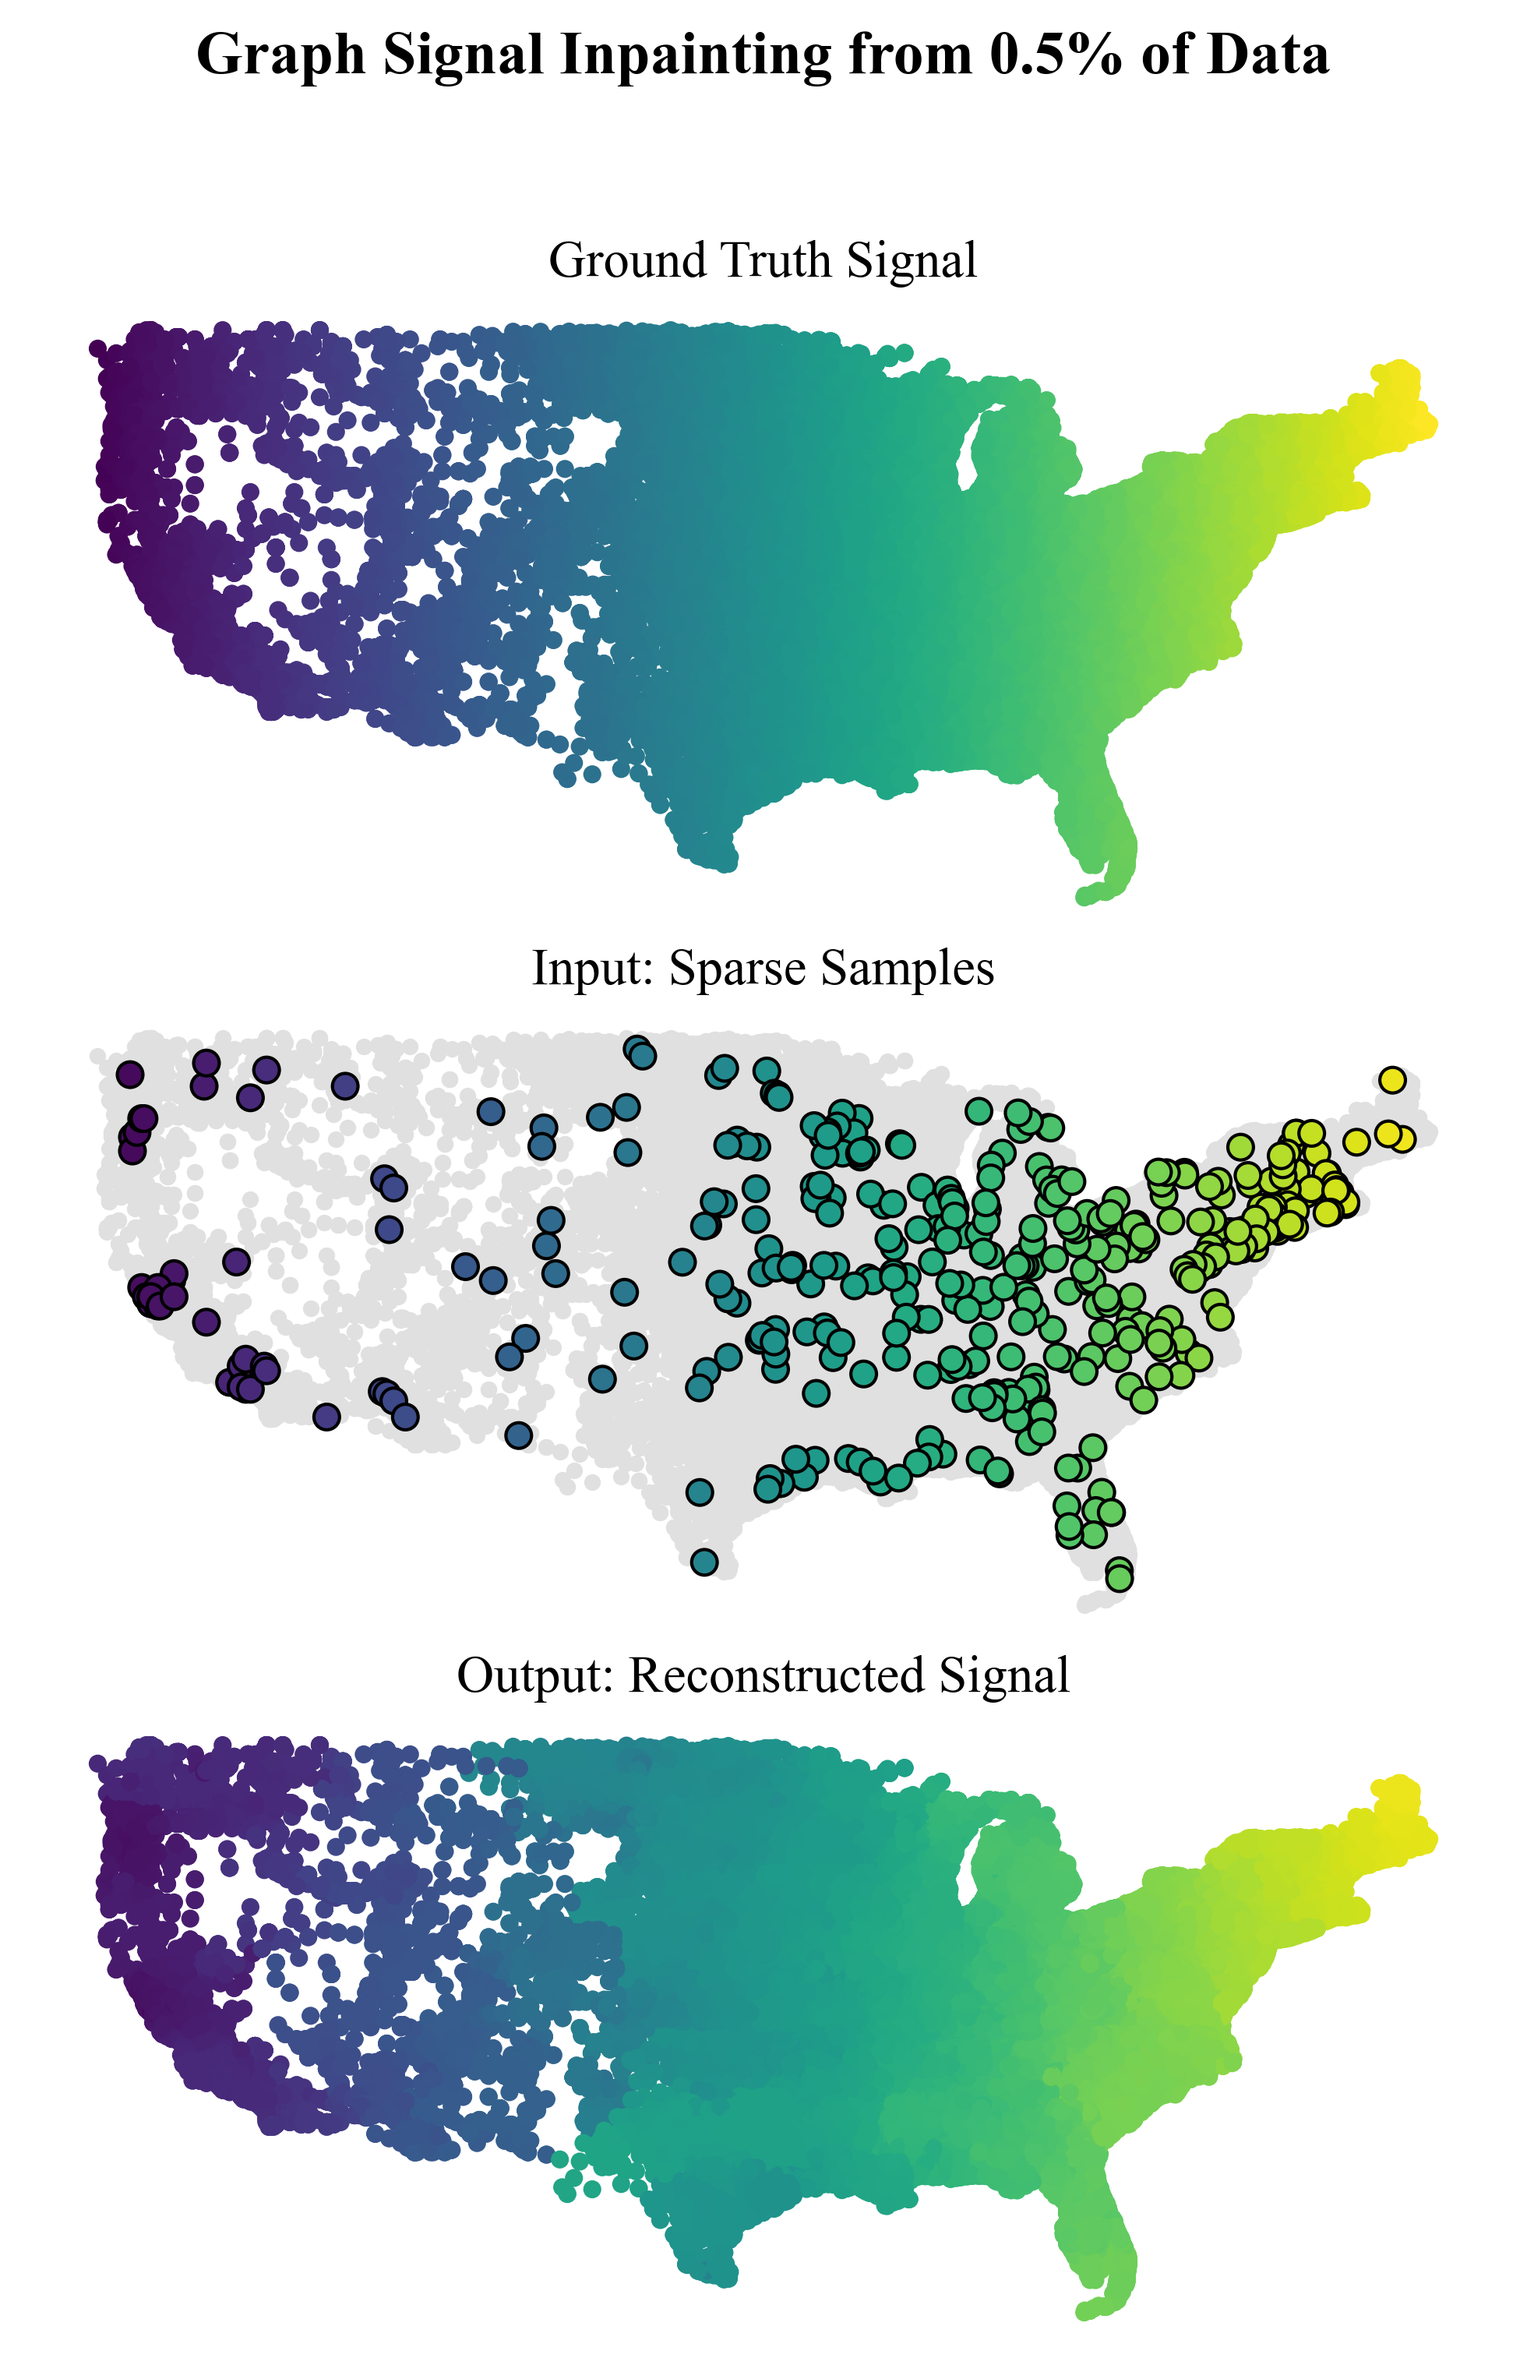
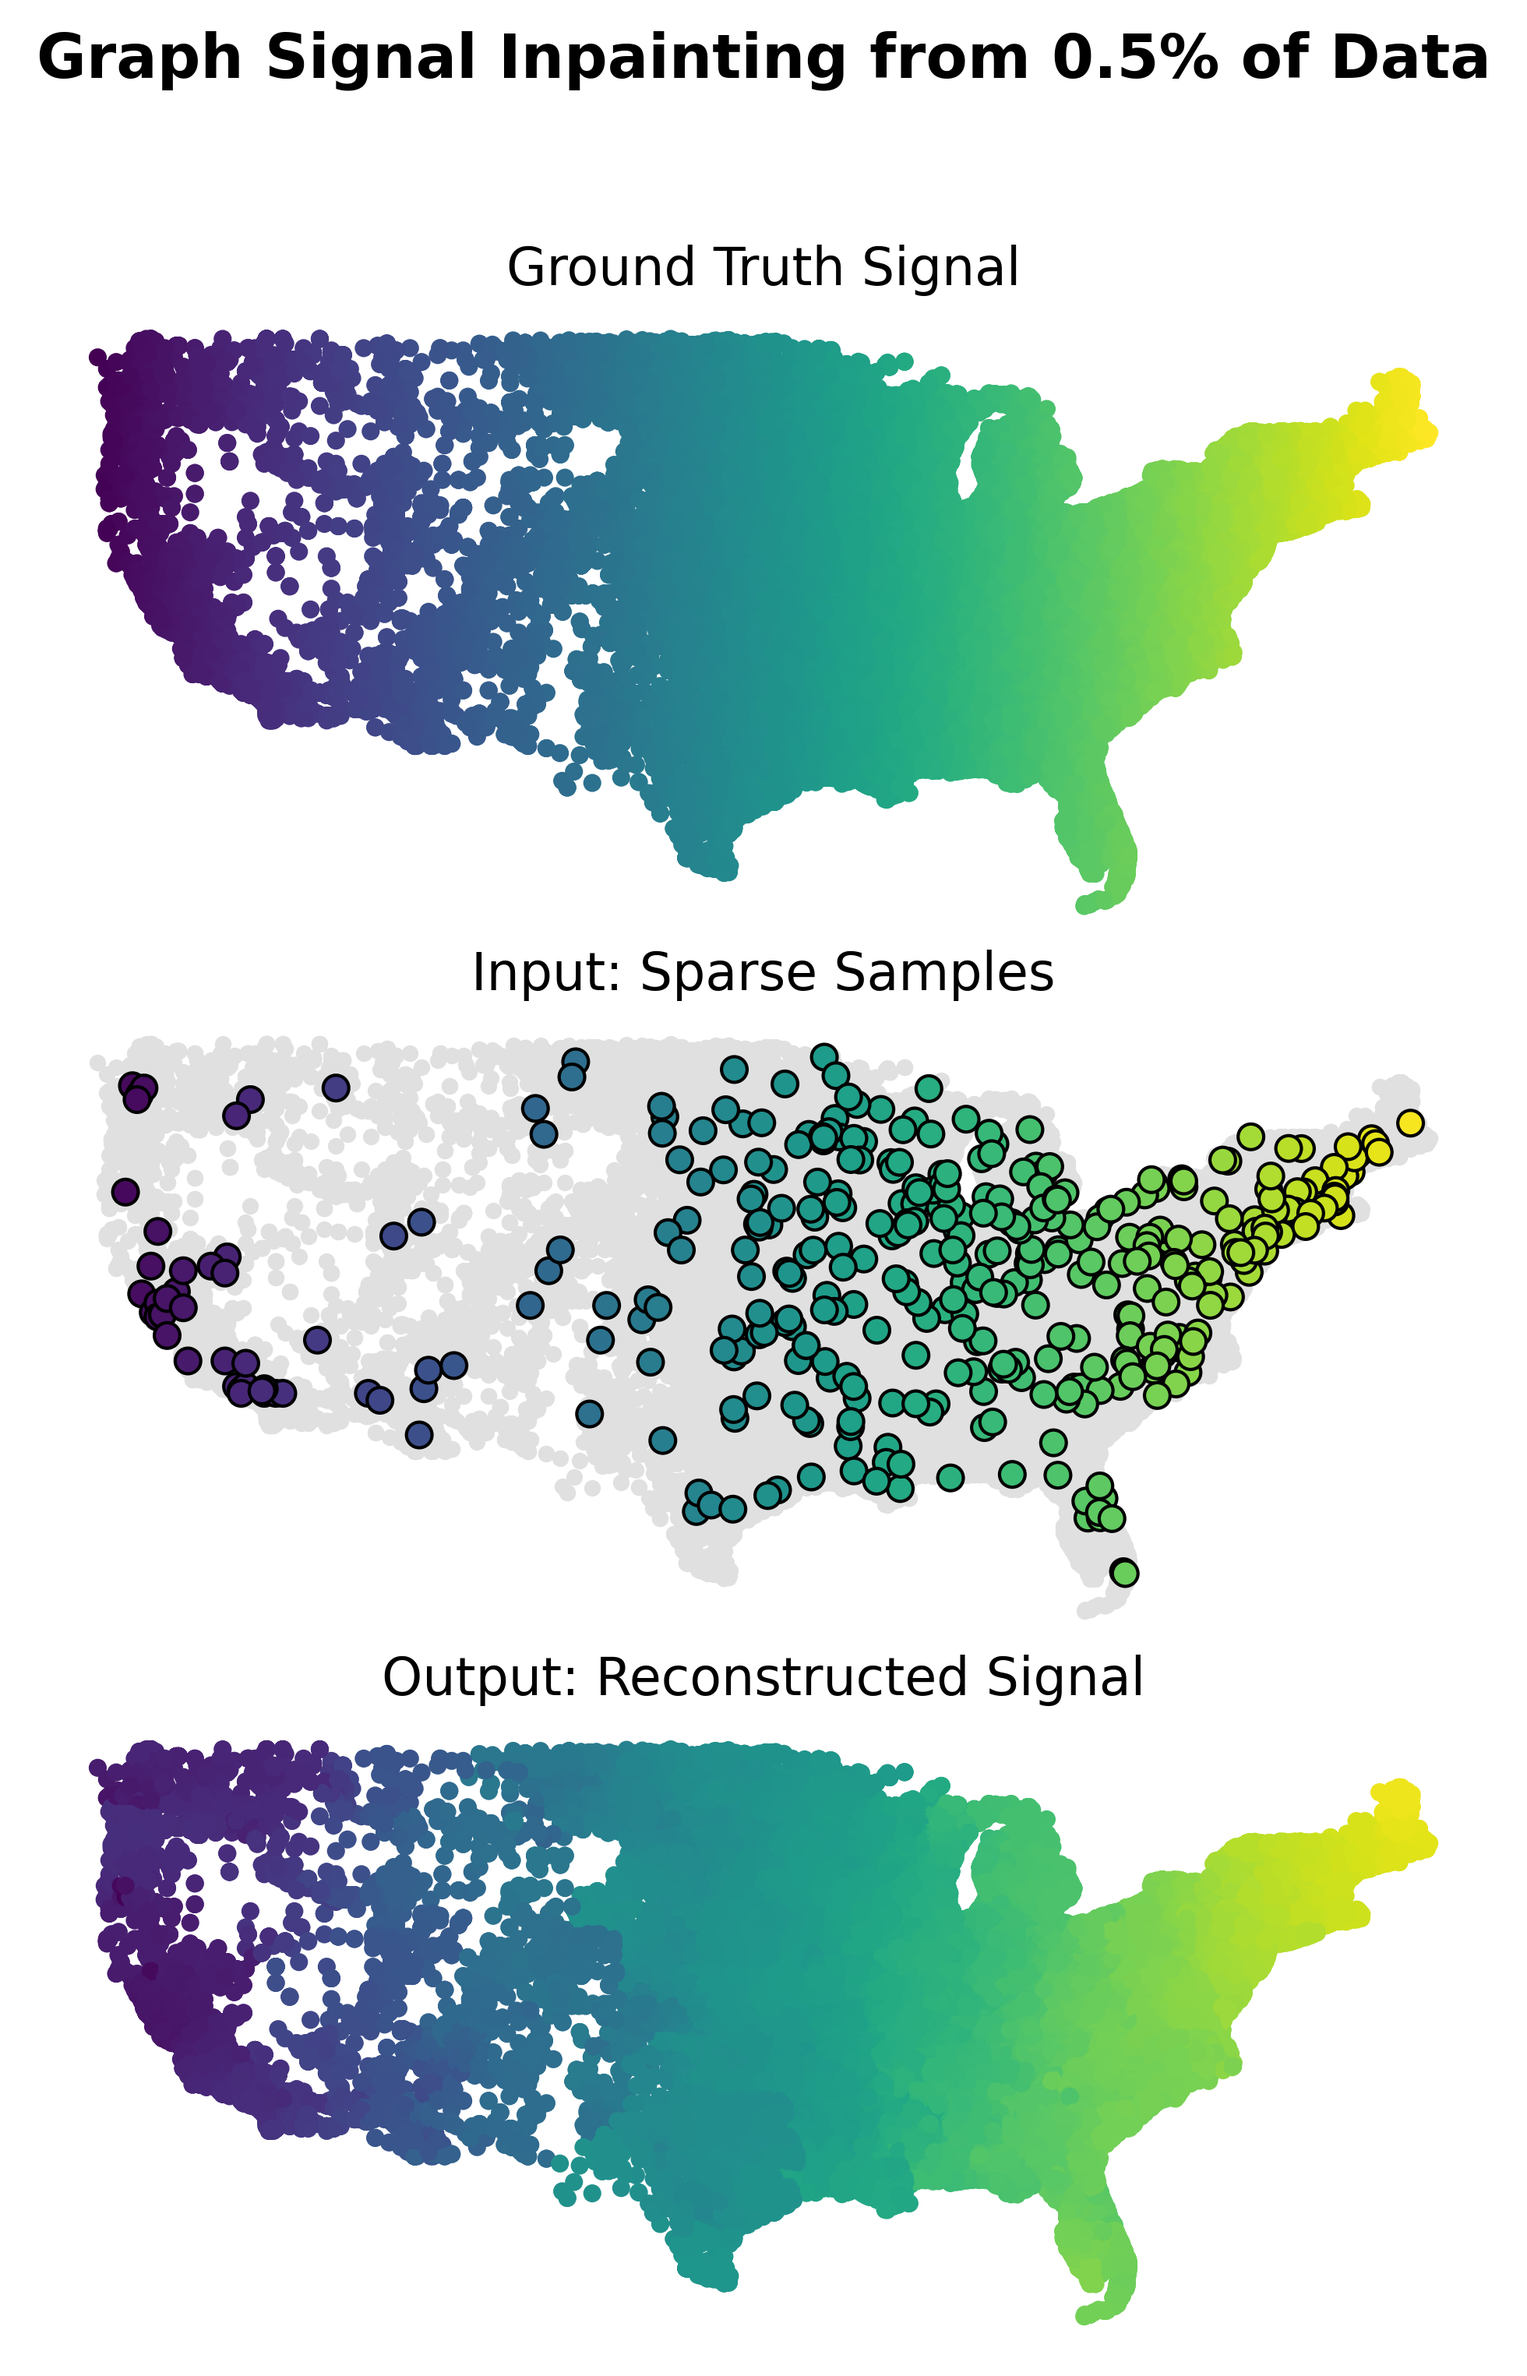
Improve Code Readability

diff --git a/examples/demo_inpainting.py b/examples/demo_inpainting.py
@@ -3,63 +3,46 @@ import os
 import matplotlib.pyplot as plt
 
 # DOC_START_CODE_EXCLUDE_IMPORTS
-from sgwt import DyConvolve, DELAY_USA, COORD_USA
+from sgwt import DyConvolve
+from sgwt import DELAY_USA as L
+from sgwt import COORD_USA as C
 import numpy as np
 
-# Set font to Times New Roman for a professional look
-plt.rcParams['font.family'] = 'serif'
-plt.rcParams['font.serif'] = ['Times New Roman'] + plt.rcParams['font.serif']
-
 # --- Configuration ---
-# Note: Parameters tuned for fast convergence.
-# Original: N_ITERATIONS=500, SMOOTHING_SCALE=10.0, STEP_SIZE=1.0
-SAMPLE_FRACTION = 0.005  # Use 0.1% of nodes as sensors
-N_ITERATIONS = 100      # Number of reconstruction steps
-SMOOTHING_SCALE = 50.0  # Larger scale propagates info faster
-STEP_SIZE = 1         # Larger step size accelerates convergence
-
-# 1. Setup: Ground Truth Signal and Graph
-L = DELAY_USA
-C = COORD_USA
+SAMPLE_FRACTION = 0.005  # Fraction of nodes used as sensors
+N_ITERATIONS = 100       # Number of reconstruction iterations
+SMOOTHING_SCALE = 50.0   # Scale for error propagation (larger propagates faster)
+STEP_SIZE = 1            # Step size for iterative updates
 n_nodes = L.shape[0]
 
 # Use longitude as a smooth signal over the graph
 X_true = C[:, 0:1].copy(order='F')
 
-# 2. Create Sparse Samples
+# 2. Create Sparse Samples from Ground Truth
 n_samples = int(n_nodes * SAMPLE_FRACTION)
 sample_indices = np.random.choice(n_nodes, n_samples, replace=False)
 
-# A boolean mask efficiently identifies sensor locations
-J_mask = np.zeros(n_nodes, dtype=bool)
-J_mask[sample_indices] = True
-
-# The sampled signal is zero everywhere except at sensor locations
+# Create a boolean mask for sensor locations and initialize sampled signal
+J_mask = np.isin(np.arange(n_nodes), sample_indices)
 X_sampled = np.zeros_like(X_true)
 X_sampled[J_mask] = X_true[J_mask]
 
 # 3. Iterative Reconstruction
-Xh = np.zeros_like(X_true, order='F')  # Start with a zero-signal guess
+Xh = np.zeros_like(X_true, order='F')  # Initialize reconstruction with zeros
 
-# DyConvolve is ideal here, as it pre-factors the system for a fixed scale.
+# DyConvolve pre-factors the system for a fixed scale, ideal for iterative methods.
 with DyConvolve(L, poles=[1/SMOOTHING_SCALE]) as conv:
-    print(f"Reconstructing signal from {n_samples} samples ({SAMPLE_FRACTION:.1%})...")
-
     for i in range(N_ITERATIONS):
         # Calculate error at sensor locations
         error = np.zeros_like(Xh)
         error[J_mask] = X_sampled[J_mask] - Xh[J_mask]
 
         # Propagate error across the graph using a low-pass filter
-        smoothed_error = conv.lowpass(error)[0]
+        smoothed_error = conv.lowpass(error)[0]  # [0] to get the signal, not the scale
 
-        # Update the signal. The DyConvolve.lowpass filter has a 1/scale factor,
+        # Update the signal. The lowpass filter includes a 1/scale factor,
         # so we multiply by the scale to get the pure solver response.
         Xh += STEP_SIZE * smoothed_error * SMOOTHING_SCALE
-
-        if (i + 1) % 100 == 0:
-            print(f"  Iteration {i+1}/{N_ITERATIONS}")
-
 # DOC_END_CODE_EXCLUDE_PLOT
 
 # 4. Visualize Results

diff --git a/examples/demo_filters_1.py b/examples/demo_filters_1.py
@@ -2,7 +2,6 @@ import os
 import matplotlib.pyplot as plt
 
 # DOC_START_CODE_EXCLUDE_IMPORTS
-
 from sgwt import Convolve, impulse
 from sgwt import DELAY_TEXAS as L
 from sgwt import COORD_TEXAS as C
@@ -10,10 +9,6 @@ from sgwt import COORD_TEXAS as C
 # Impulses
 X  = impulse(L, n=1200)
 X += impulse(L, n=600)
-
-# Set font to Times New Roman for a professional look
-plt.rcParams['font.family'] = 'serif'
-plt.rcParams['font.serif'] = ['Times New Roman'] + plt.rcParams['font.serif']
 
 # Scales
 s = [1e-1]
@@ -24,7 +19,6 @@ with Convolve(L) as conv:
     LP = conv.lowpass(X, s)
     BP = conv.bandpass(X, s)
     HP = conv.highpass(X, s)
-
 # DOC_END_CODE_EXCLUDE_PLOT
 # Assuming plot_signal creates and sets the current matplotlib figure
 from demo_plot import plot_signal

diff --git a/examples/demo_filters_2.py b/examples/demo_filters_2.py
@@ -6,7 +6,6 @@ from sgwt import Convolve, impulse
 from sgwt import DELAY_EASTWEST as L
 from sgwt import COORD_EASTWEST as C
 
-
 # Impulse
 X  = impulse(L, n=65000)
 
@@ -16,14 +15,10 @@ s = [3e0]
 # Memory Efficient Context
 with Convolve(L) as conv:
 
+    # Third Order Band-Pass
     BP = conv.bandpass(X, s)[0]
     BP = conv.bandpass(BP, s)[0]
     BP = conv.bandpass(BP, s)[0]
-
-# Set font to Times New Roman for a professional look
-plt.rcParams['font.family'] = 'serif'
-plt.rcParams['font.serif'] = ['Times New Roman'] + plt.rcParams['font.serif']
-
 # DOC_END_CODE_EXCLUDE_PLOT
 from demo_plot import plot_signal
 plot_signal(BP[:,0], C, 'coolwarm')

diff --git a/examples/demo_dynamic_time.py b/examples/demo_dynamic_time.py
@@ -15,7 +15,6 @@ scales = np.geomspace(1e-5, 1e2, 20)
 poles = 1/scales
 
 with Convolve(L) as conv:
-
     start = time.time()
     for i in range(10):
         Y = conv.bandpass(X, scales)
@@ -23,12 +22,10 @@ with Convolve(L) as conv:
 
 
 with DyConvolve(L, poles) as conv:
-
     start = time.time()
     for i in range(10):
         Y = conv.bandpass(X)
     T2 = time.time() - start
-
 # DOC_END_CODE_EXCLUDE_PLOT
 # Set font to Times New Roman for a professional look (already set above, but kept for clarity if code block was different)
 # plt.rcParams['font.family'] = 'serif'

diff --git a/examples/demo_filters_3.py b/examples/demo_filters_3.py
@@ -19,7 +19,6 @@ with Convolve(L) as conv:
     BP = conv.bandpass(X, s)[0]
     BP = conv.bandpass(BP, s)[0]
     BP = conv.bandpass(BP, s)[0]
-
 # DOC_END_CODE_EXCLUDE_PLOT
 from demo_plot import plot_signal
 plot_signal(BP[:,0], C, 'coolwarm')

diff --git a/examples/demo_dynamic_topology.py b/examples/demo_dynamic_topology.py
@@ -26,7 +26,6 @@ with DyConvolve(L, poles) as conv:
 
     # Post-Close Convolution
     Y_after = conv.bandpass(X)
-
 # DOC_END_CODE_EXCLUDE_PLOT
 from demo_plot import plot_signal
 
